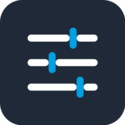
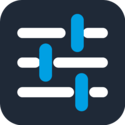
docs: the store glyphs fill the tile and thicken, so they still read at the 40 pixels of the modules list

Changed region(s): [[0.12, 0.096, 0.864, 0.912]]

diff --git a/icons/store/README.md b/icons/store/README.md
@@ -19,8 +19,9 @@ tiles. Nothing in the modules reads these files.
   `#00A0E3` — turned into a store tile: the 125 × 125 rounded square (radius 22) is the slate,
   the strokes are white, the accent stays blue.
 - The glyph: drawn on a 24-unit grid like every Formidable content-type icon (Lucide
-  conventions: stroke 2, round caps and joins, no fill), scaled 3.5 times and centred. Hand-drawn
-  SVG, no icon library.
+  conventions: round caps and joins, no fill), scaled 4.2 times and centred, with strokes of 2.4
+  (3 for the blue accent) rather than 2: the modules list of Jahia shows the tile at about 40
+  pixels, where a thinner or smaller glyph blurs away. Hand-drawn SVG, no icon library.
 
 ## Regenerating a PNG from its SVG
 
